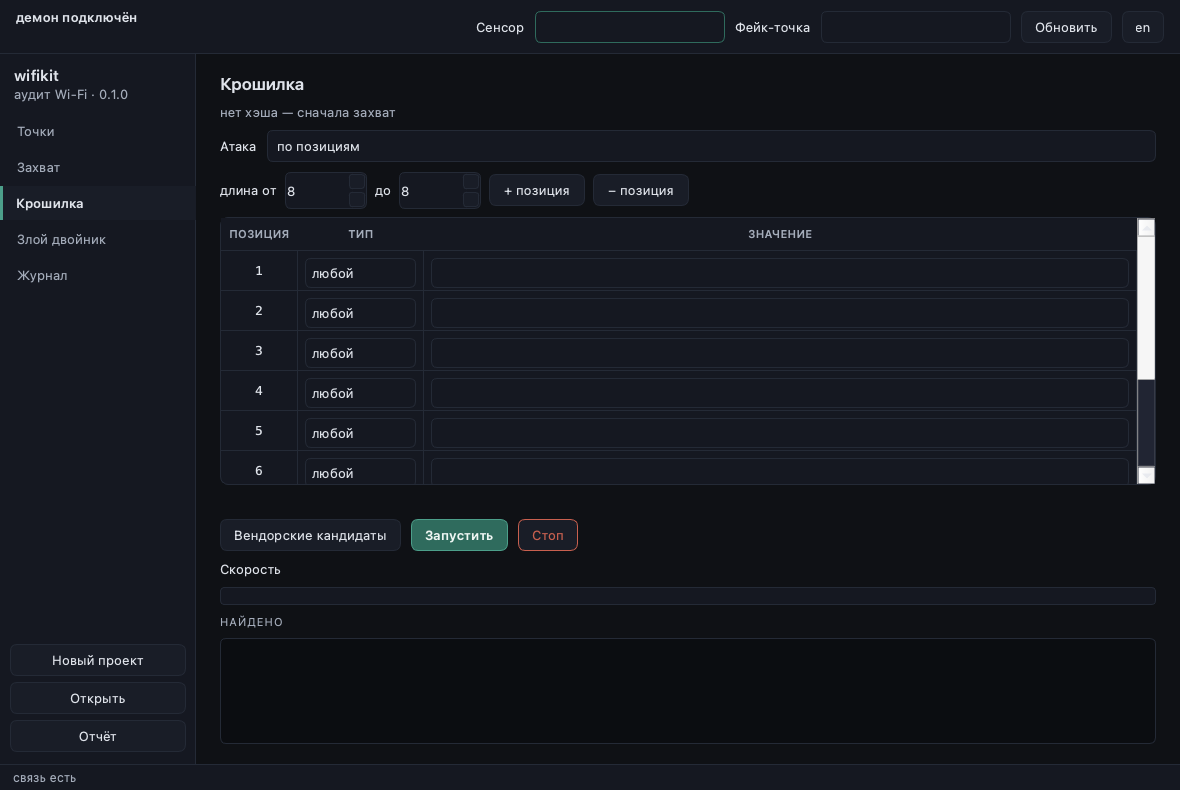
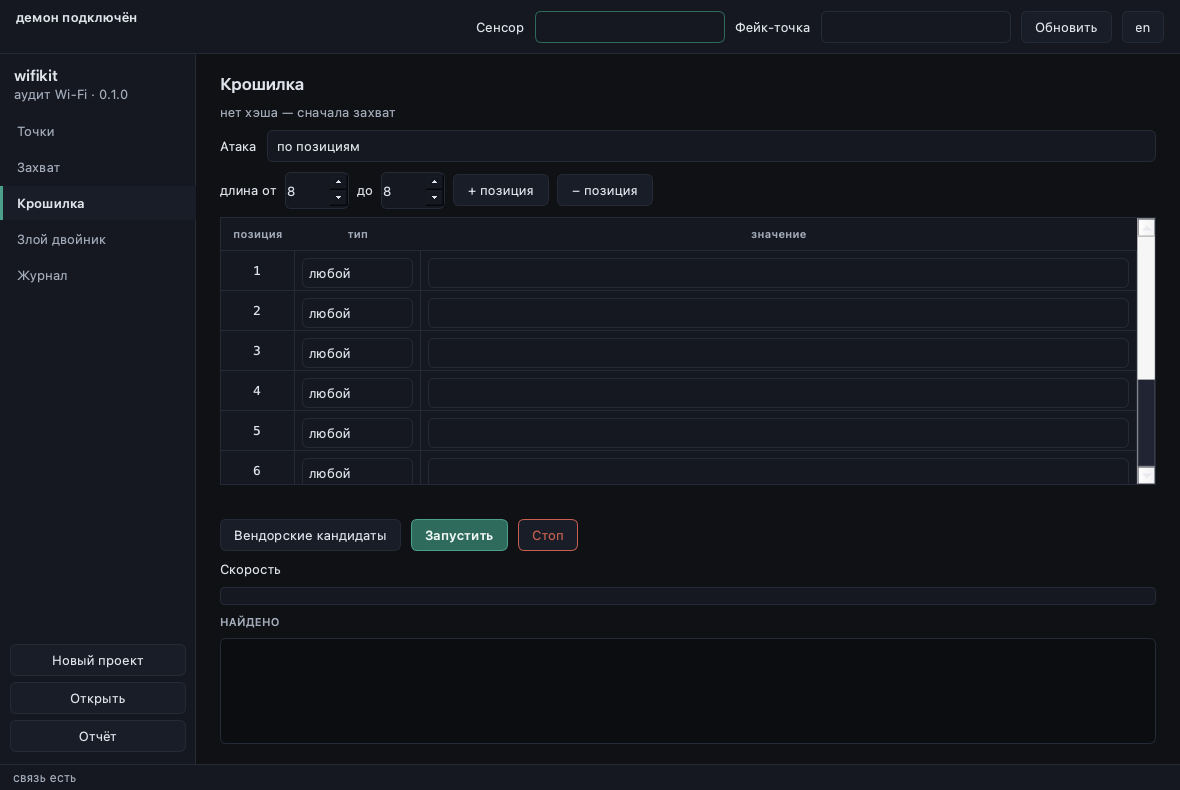
QSS: убраны приватные селекторы Qt (вероятная причина SIGSEGV в отрисовке)
- QComboBoxPrivateContainer, QComboBox QFrame, глобальный QListView — приватные
  виджеты, QStyleSheetStyle на них падает; попап красится палитрой
- убраны неподдерживаемые свойства (text-transform) и border-radius у элементов
- тесты: приватные селекторы и неподдерживаемые CSS-свойства запрещены

diff --git a/app/theme.py b/app/theme.py
@@ -47,50 +47,63 @@ def dark_palette():
 
 
 QSS = f"""
-* {{ font-family: "Inter", "Noto Sans", "DejaVu Sans", "SF Pro Text", "Segoe UI", sans-serif; font-size: 13px; }}
+/* Только документированные классы и субконтролы Qt.
+   Приватные виджеты (QComboBoxPrivateContainer и подобные) и стилизация
+   внутренних QFrame попапа не поддерживаются и роняют QStyleSheetStyle. */
+
 QMainWindow, QDialog, QWidget#root {{ background: {BG}; }}
-QLabel, QCheckBox, QRadioButton, QFrame#hsep {{ background: transparent; }}
-QWidget {{ color: {TEXT}; }}
+QWidget {{ color: {TEXT}; font-size: 13px; }}
+QLabel, QCheckBox, QRadioButton {{ background: transparent; }}
 QFrame#sidebar {{ background: {PANEL}; border-right: 1px solid {BORDER}; }}
 QFrame#topbar {{ background: {PANEL}; border-bottom: 1px solid {BORDER}; }}
 QStatusBar {{ background: {PANEL}; border-top: 1px solid {BORDER}; }}
 QStatusBar QLabel {{ color: #b6bdcb; padding-left: 8px; font-size: 12px; }}
-QLabel#brand {{ font-size: 15px; font-weight: 600; letter-spacing: .04em; }}
+
+QLabel#brand {{ font-size: 15px; font-weight: 600; }}
 QLabel#muted, QLabel.muted {{ color: {MUTED}; }}
 QLabel:disabled {{ color: #5b6272; }}
 QLabel#h1 {{ font-size: 17px; font-weight: 600; }}
-QLabel#h2 {{ font-size: 11px; color: {MUTED}; text-transform: uppercase; letter-spacing: .1em; }}
+QLabel#h2 {{ font-size: 11px; color: {MUTED}; font-weight: 600; }}
 QLabel#mono, QLabel.mono {{ font-family: "JetBrains Mono", "SF Mono", Menlo, monospace; }}
 QLabel#ok {{ color: {ACCENT}; }}
 QLabel#bad {{ color: {DANGER}; }}
 QLabel#warn {{ color: {WARN}; }}
+QLabel#badge, QLabel#badge_ok, QLabel#badge_warn, QLabel#badge_bad {{
+  border: 1px solid {BORDER}; border-radius: 4px; padding: 1px 5px; font-size: 11px; color: {MUTED}; }}
+QLabel#badge_ok {{ border-color: {ACCENT_DIM}; color: {ACCENT}; }}
+QLabel#badge_warn {{ border-color: {WARN}; color: {WARN}; }}
+QLabel#badge_bad {{ border-color: {DANGER}; color: {DANGER}; }}
 
-QPushButton {{ background: {CARD}; border: 1px solid {BORDER}; border-radius: 7px; padding: 7px 13px; color: {TEXT}; }}
+QPushButton {{ background: {CARD}; border: 1px solid {BORDER}; border-radius: 6px; padding: 7px 13px; color: {TEXT}; }}
 QPushButton:hover {{ border-color: {ACCENT_DIM}; }}
 QPushButton:pressed {{ background: {BG}; }}
-QPushButton:disabled {{ color: #5b6272; border-color: {BORDER}; }}
+QPushButton:disabled {{ color: #5b6272; }}
 QPushButton#primary {{ background: {ACCENT_DIM}; border-color: {ACCENT}; color: #eef6f3; font-weight: 600; }}
 QPushButton#primary:hover {{ background: {ACCENT}; }}
 QPushButton#danger {{ border-color: {DANGER}; color: {DANGER}; }}
-QPushButton#nav {{ background: transparent; border: none; border-left: 3px solid transparent; border-radius: 0; padding: 9px 14px; text-align: left; color: {MUTED}; }}
+QPushButton#nav {{ background: transparent; border: none; border-left: 3px solid transparent; border-radius: 0;
+  padding: 9px 14px; text-align: left; color: {MUTED}; }}
 QPushButton#nav:hover {{ color: {TEXT}; background: {CARD}; }}
-QPushButton#nav:checked {{ color: {TEXT}; border-left: 3px solid {ACCENT}; background: {CARD}; font-weight: 600; padding-left: 13px; }}
+QPushButton#nav:checked {{ color: {TEXT}; border-left: 3px solid {ACCENT}; background: {CARD}; font-weight: 600; }}
 
-QLineEdit, QComboBox, QSpinBox, QPlainTextEdit {{ background: {PANEL}; border: 1px solid {BORDER}; border-radius: 6px; padding: 6px 8px; selection-background-color: {ACCENT_DIM}; }}
+QLineEdit, QComboBox, QSpinBox, QPlainTextEdit {{
+  background: {PANEL}; border: 1px solid {BORDER}; border-radius: 6px; padding: 6px 8px;
+  selection-background-color: {ACCENT_DIM}; }}
 QLineEdit:focus, QComboBox:focus, QSpinBox:focus {{ border-color: {ACCENT_DIM}; }}
 QComboBox {{ padding: 5px 22px 5px 9px; min-height: 20px; }}
-QComboBox::drop-down {{ subcontrol-origin: padding; subcontrol-position: center right; width: 18px; border: none; background: transparent; }}
-QComboBox QAbstractItemView {{ background: {CARD}; border: 1px solid {BORDER}; padding: 4px; outline: none;
+QComboBox::drop-down {{ subcontrol-origin: padding; subcontrol-position: center right; width: 18px; border: none; }}
+QComboBox QAbstractItemView {{
+  background: {CARD}; border: 1px solid {BORDER}; padding: 3px;
   selection-background-color: {ACCENT_DIM}; selection-color: {TEXT}; }}
-QComboBox QAbstractItemView::item {{ padding: 5px 8px; min-height: 20px; border-radius: 4px; }}
-/* контейнер попапа: без этого вокруг списка видны светлые полосы */
-QComboBox QFrame {{ background-color: {CARD}; border: none; }}
-QComboBoxPrivateContainer {{ background-color: {CARD}; border: 1px solid {BORDER}; }}
-QListView {{ background-color: {CARD}; border: none; outline: none; }}
 
-QTableWidget {{ background: {PANEL}; border: 1px solid {BORDER}; border-radius: 8px; gridline-color: {BORDER}; selection-background-color: {CARD}; selection-color: {TEXT}; }}
-QHeaderView::section {{ background: {PANEL}; color: {MUTED}; font-weight: 600; border: none; border-bottom: 1px solid {BORDER}; padding: 6px; font-size: 11px; text-transform: uppercase; }}
+QTableWidget {{
+  background: {PANEL}; border: 1px solid {BORDER}; gridline-color: {BORDER};
+  selection-background-color: {CARD}; selection-color: {TEXT}; }}
+QHeaderView::section {{
+  background: {PANEL}; color: {MUTED}; border: none; border-bottom: 1px solid {BORDER};
+  padding: 6px; font-size: 11px; font-weight: 600; }}
 QTableWidget::item {{ padding: 4px; }}
+QTableWidget QComboBox, QTableWidget QLineEdit {{ padding: 3px 6px; margin: 3px; min-height: 22px; }}
 
 QProgressBar {{ background: {PANEL}; border: 1px solid {BORDER}; border-radius: 4px; height: 6px; text-align: center; }}
 QProgressBar::chunk {{ background: {ACCENT_DIM}; border-radius: 3px; }}
@@ -99,16 +112,7 @@ QCheckBox {{ spacing: 7px; }}
 QCheckBox::indicator {{ width: 14px; height: 14px; border: 1px solid {BORDER}; border-radius: 3px; background: {PANEL}; }}
 QCheckBox::indicator:checked {{ background: {ACCENT}; border-color: {ACCENT}; }}
 
-QScrollArea {{ border: none; }}
-QSplitter::handle {{ background: {BORDER}; height: 1px; }}
-QPlainTextEdit#console {{ font-family: "JetBrains Mono", Menlo, monospace; font-size: 11.5px; color: #c3cad6; background: #0b0d11; border-top: 1px solid {BORDER}; }}
+QPlainTextEdit#console {{ font-family: "JetBrains Mono", Menlo, monospace; font-size: 11px;
+  color: #c3cad6; background: #0b0d11; }}
 QToolTip {{ background: {CARD}; color: {TEXT}; border: 1px solid {BORDER}; padding: 4px; }}
-QTableWidget QComboBox, QTableWidget QLineEdit {{ padding: 3px 6px; margin: 3px; min-height: 22px; }}
-QTableWidget QComboBox QAbstractItemView {{ padding: 0; }}
-QLabel#badge {{ border: 1px solid {BORDER}; border-radius: 4px; padding: 1px 5px; font-size: 10px; color: {MUTED}; text-transform: uppercase; }}
-QLabel#badge_ok {{ border: 1px solid {ACCENT_DIM}; border-radius: 4px; padding: 1px 5px; font-size: 10px; color: {ACCENT}; }}
-QLabel#badge_warn {{ border: 1px solid {WARN}; border-radius: 4px; padding: 1px 5px; font-size: 10px; color: {WARN}; }}
-QLabel#badge_bad {{ border: 1px solid {DANGER}; border-radius: 4px; padding: 1px 5px; font-size: 10px; color: {DANGER}; }}
-
-QSpinBox::up-button, QSpinBox::down-button {{ width: 14px; background: {CARD}; border: 1px solid {BORDER}; border-radius: 3px; margin: 1px; }}
 """

diff --git a/tests/unit/test_ui_hygiene.py b/tests/unit/test_ui_hygiene.py
@@ -99,10 +99,22 @@ class StylingTest(unittest.TestCase):
         self.assertIn("Path.home() / \"wifikit-projects\"", main)
         self.assertIn("base=str(self.projects_root())", main)
 
-    def test_combo_popup_not_white(self):
+    def test_no_private_qt_selectors(self):
+        """Приватные виджеты в QSS не поддерживаются и роняют QStyleSheetStyle."""
         theme = (APP / "theme.py").read_text()
-        self.assertIn("QComboBox QFrame", theme)
-        self.assertIn("QComboBoxPrivateContainer", theme)
+        for private in ("QComboBoxPrivateContainer {", "QComboBox QFrame {", "QListView {"):
+            self.assertNotIn(private, theme, f"стилизация приватного виджета: {private}")
+
+    def test_popup_dark_via_palette(self):
+        # цвет попапа берётся из палитры, а не из приватных селекторов
+        theme = (APP / "theme.py").read_text()
+        self.assertIn("QPalette.Base", theme)
+        self.assertIn("QComboBox QAbstractItemView", theme)
+
+    def test_no_unsupported_css_properties(self):
+        theme = (APP / "theme.py").read_text()
+        for css in ("font-variant-numeric", "text-transform"):
+            self.assertNotIn(css, theme, f"Qt не поддерживает {css}")
 
     def test_labels_transparent(self):
         theme = (APP / "theme.py").read_text()
